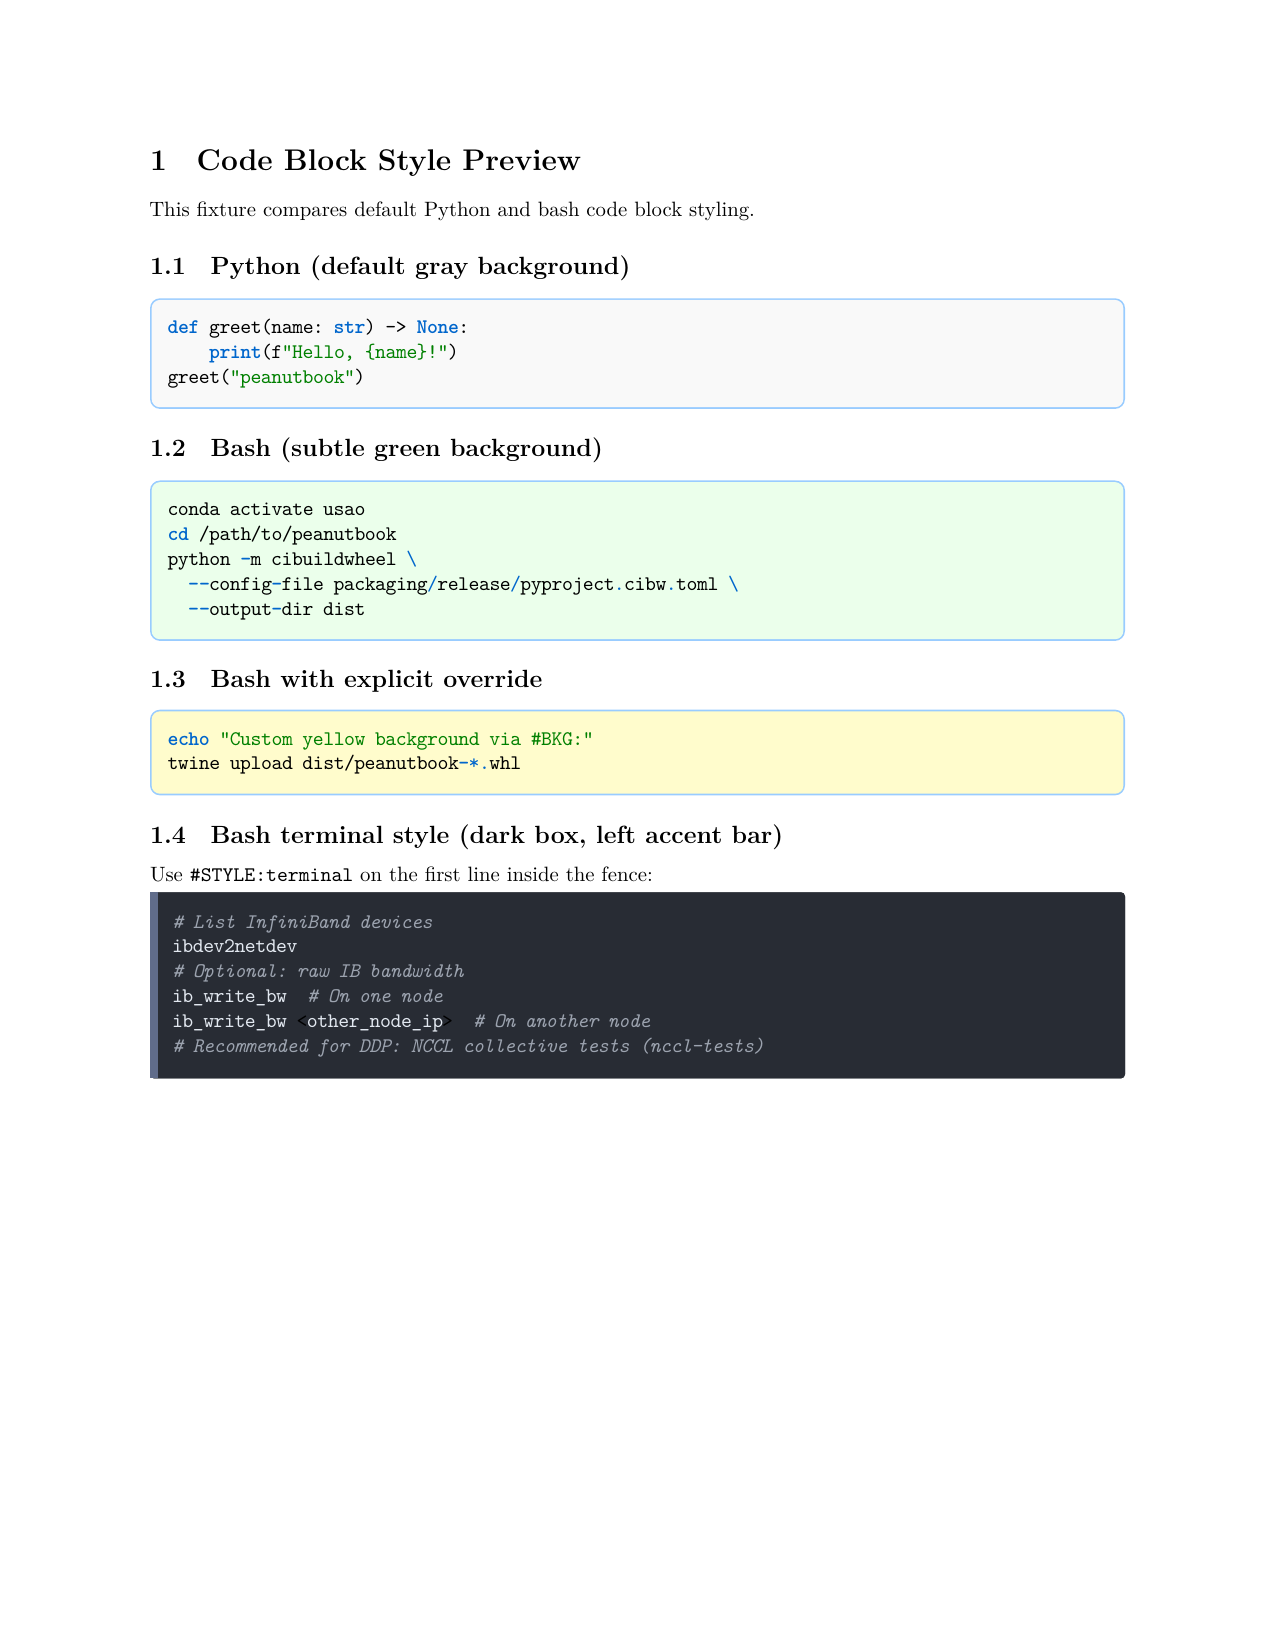
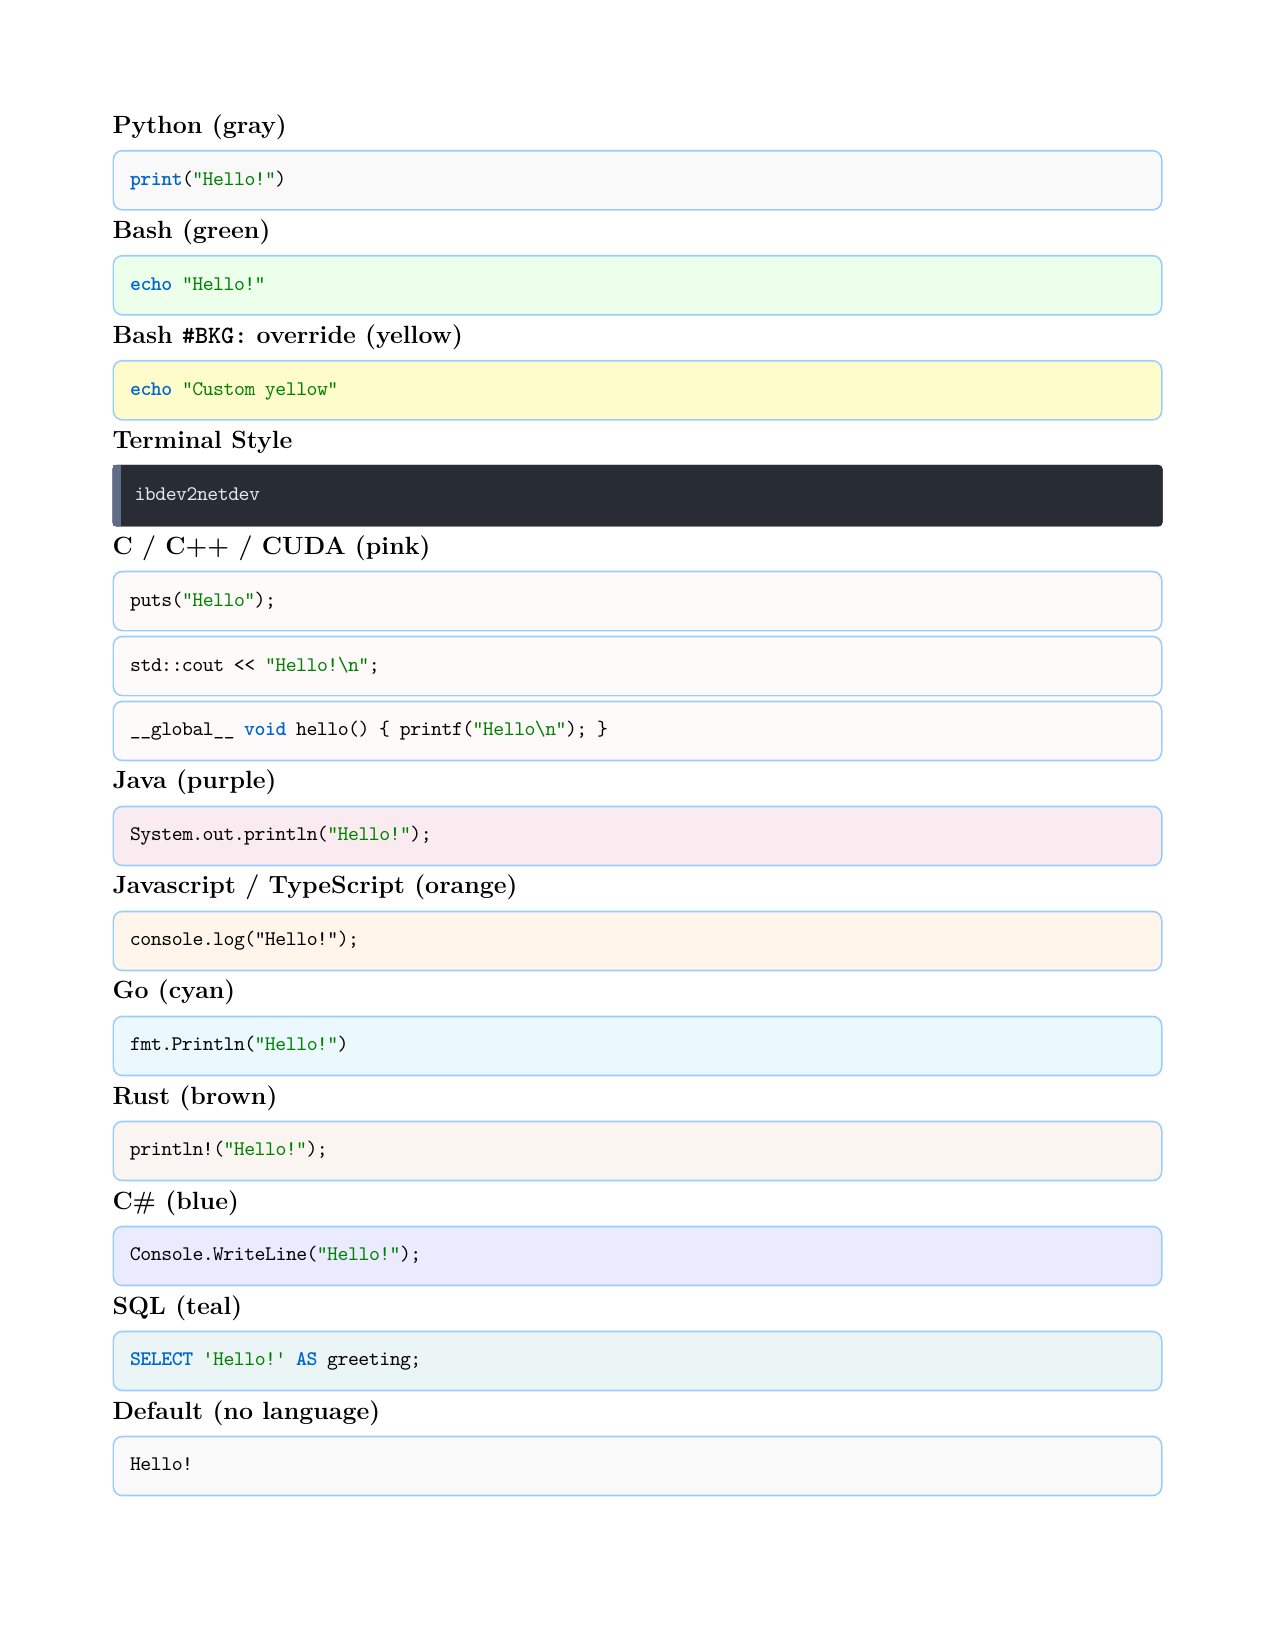
syntax ext

Changed region(s): [[0.0612, 0.0618, 0.9176, 0.8958], [0.52, 0.1236, 0.5812, 0.1545]]

diff --git a/docs/markdown-syntax-extensions.md b/docs/markdown-syntax-extensions.md
@@ -325,7 +325,7 @@ Text after red divider with Python icon.
 
 Peanutbook applies different code box styles by language and optional first-line markers inside the fence. PDF output is shown below; HTML uses matching light/dark classes for bash and terminal blocks.
 
-![Code block styles in PDF: Python default, bash green tint, custom #BKG, and terminal style](img/codeblock-styles-preview.png)
+![Code block styles in PDF: Python, bash, C++, Java, overrides, and terminal](img/codeblock-styles-preview.png)
 
 ### Default by language
 
@@ -333,6 +333,14 @@ Peanutbook applies different code box styles by language and optional first-line
 |----------------|-----------|
 | `python` | Gray box, blue border (default) |
 | `bash`, `sh`, `shell` | Light green tint (`green!8`) |
+| `c`, `cpp`, `c++`, `cuda` | Light pink tint (`pink!8`) — shared C-family style |
+| `java` | Light purple tint (`purple!8`) |
+| `javascript`, `js`, `typescript`, `ts` | Light orange tint (`orange!8`) |
+| `go` | Light cyan tint (`cyan!8`) |
+| `rust` | Light brown tint (`brown!8`) |
+| `csharp`, `cs` | Light blue tint (`blue!8`) |
+| `sql` | Light teal tint (`teal!8`) |
+| *(none)* | Gray box, blue border (same as `python` default) |
 
 ````markdown
 ```python
@@ -343,6 +351,51 @@ def greet(name: str) -> None:
 ```bash
 conda activate usao
 python -m cibuildwheel --output-dir dist
+```
+
+```c
+#include <stdio.h>
+int main(void) { puts("hi"); return 0; }
+```
+
+```cpp
+#include <iostream>
+int main() { std::cout << "hi\n"; }
+```
+
+```cuda
+__global__ void hello() { printf("hi\n"); }
+```
+
+```java
+public class Main {
+    public static void main(String[] args) { }
+}
+```
+
+```typescript
+const greet = (name: string): void => console.log(name);
+```
+
+```go
+package main
+func main() { fmt.Println("hi") }
+```
+
+```rust
+fn main() { println!("hi"); }
+```
+
+```csharp
+Console.WriteLine("hi");
+```
+
+```sql
+SELECT 'hi' AS greeting;
+```
+
+```
+plain text or unknown language
 ```
 ````
 
@@ -373,6 +426,28 @@ ib_write_bw <other_node_ip>
 ````
 
 Works with any fenced language, not only bash.
+
+### No border radius (`#STYLE:no-border-radius`)
+
+Square corners on the code box (overrides the default rounded border). Language background tints still apply.
+
+````markdown
+```python
+#STYLE:no-border-radius
+print("Hello!")
+```
+````
+
+### No border line (`#STYLE:no-border-line`)
+
+Removes the colored border line around the code box. Language background tints still apply.
+
+````markdown
+```python
+#STYLE:no-border-line
+print("Hello!")
+```
+````
 
 ### Preview fixture
 